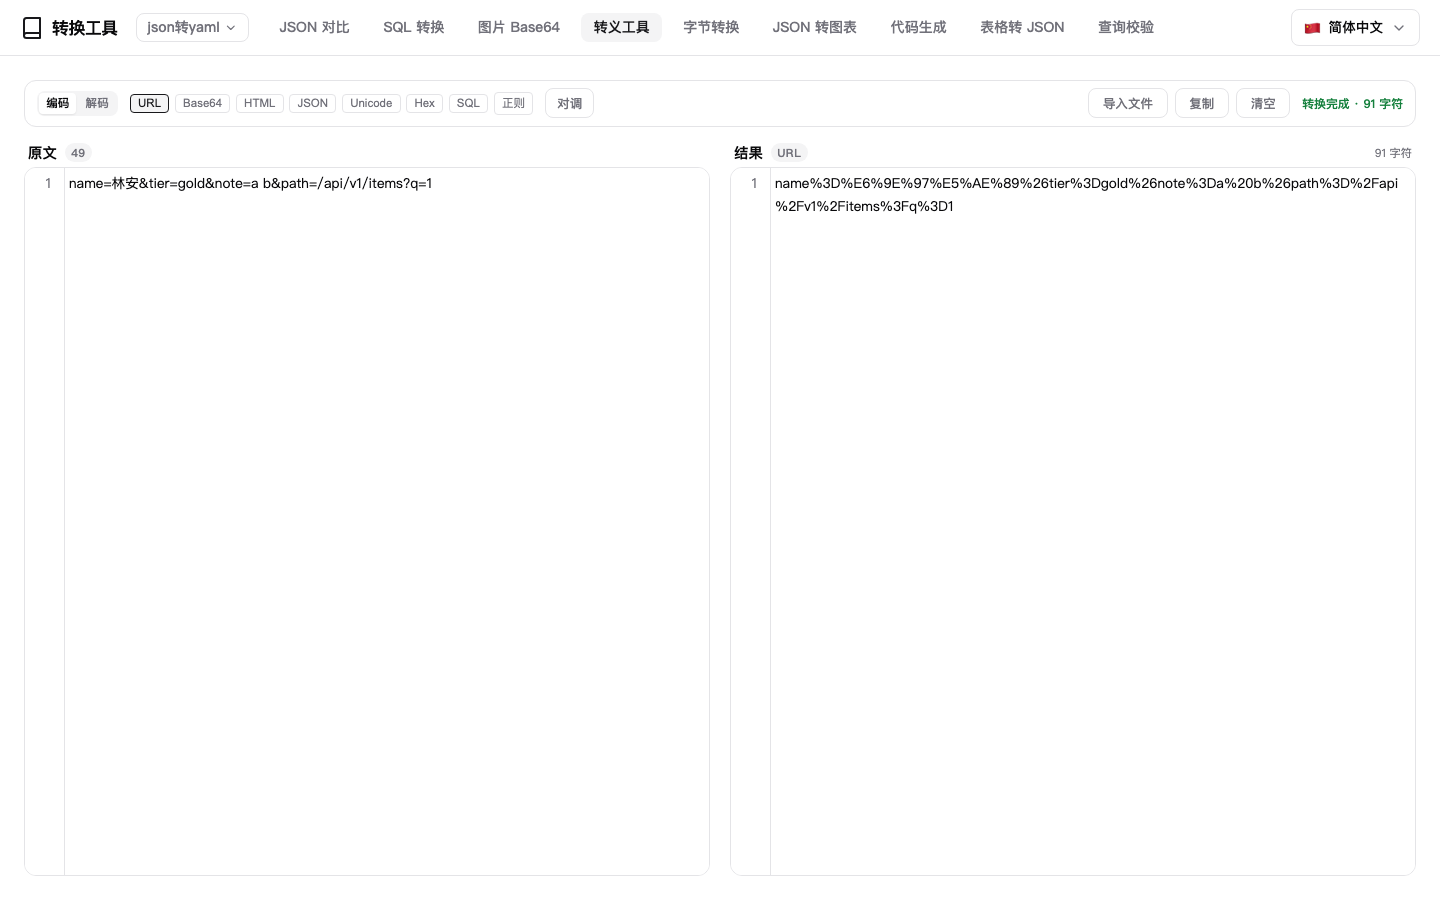
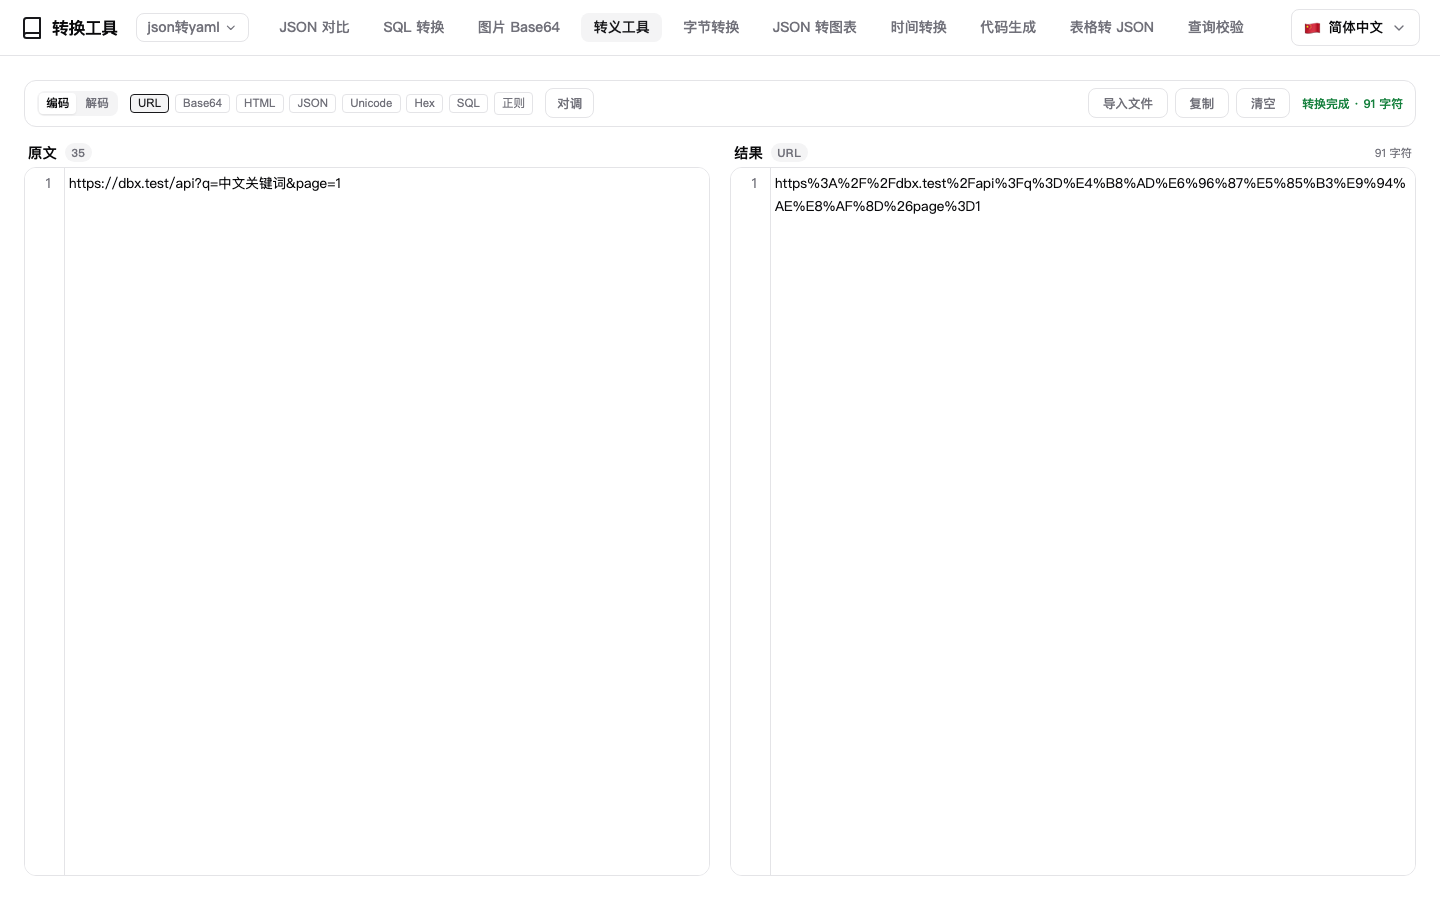
增加截图

diff --git a/.workbuddy/memory/2026-10-25.md b/.workbuddy/memory/2026-10-25.md
@@ -68,5 +68,19 @@
 ### 约定更新
 「版本号以 `manifest.json` 为准」——用户原话「以后以 mainfest 为准」。其余三处跟 manifest 对齐，但不自己决定升版本。
 
+### 23:18 用户指出「截图好像是旧的」→ 整套重拍
+根因：导航新增「时间转换」后，10 张旧图（10-24 拍的）导航里都少这一项，只有新拍的时间页图是新的。用户说「截图好像是旧的」就是指这个。
+
+处理：写 `/tmp/imgh/shoot-readme-all.js`，一次跑完 11 张——首屏拍格式转换，其余点导航 + 点示例按钮（表格页「用户信息」、图片页「示例图片」），全程 1440×900、1x、亮色、清 toast。**筛选示例按钮时必须加 `offsetParent !== null`**，否则「用户信息」这种同名 chip 会点到隐藏页面里的那个。
+
+补拍时踩到的三个坑：
+1. **不是每页都自动装示例**：代码生成 / 查询 / 转义 / 字节 / 图表 / 表格 / 图片点导航或点示例就有；**格式转换、对比、SQL 是空的**——格式转换点 `#genMockBtn` 再 `#convertBtn`，对比点 `#cmpJsonSamples` 的「用户信息」再 `#cmpRun`，SQL 往 `#sqlInputText` 灌 5 个值再 `#sqlGenerate`（值用 `u-10231…u-10235` 这类自造 id）。
+2. **别用 `textarea.value` 判断内容是否进去**：CodeMirror 下它读出来是空（对比页明明 4 处差异，`cmpLeftText.value` 也是 0）。要读 `el.CodeMirror.getValue()`。
+3. 懒创建的 CM 要等 ~500 ms 再取实例，否则 `nextElementSibling.CodeMirror` 是 undefined，写值静默失败。
+
+结果：11 张全部 1440×900、亮色、导航含「时间转换」，逐张看过——主图 JSON→YAML、对比 4 处差异、SQL 的 IN 列表、表格 4×5、图片 Base64、TS 模型、JSONPath 结果、URL 转义、字节批量+三种写法、时间转换、柱状图，都与旧图状态一致（字节页用的是当前默认示例，内容比旧图更全）。
+
+记进 MEMORY.md：**加一个导航项 = 全部核心页截图都过时**，必须整套重拍，不能只补新页那张。
+
 ### 23:12 用户改 CHANGELOG
 用户自己把「图表宽高输入老是变」那条**从 0.1.6 修复段挪到 0.1.7**（那条修复确实发生在 0.1.6 发布之后，归 0.1.7 才对），0.1.7 现在是「新增 4 / 修复 1 / 工程化 5」。我只把该段多余的空行（标题前两行、标题后零行）统一成项目格式，条目一个字没动。

diff --git a/.workbuddy/memory/MEMORY.md b/.workbuddy/memory/MEMORY.md
@@ -13,6 +13,11 @@
 ## 文档与截图
 
 1. **截图与当前版本一致**：改到 UI（导航、布局、文案、主题）就重拍 README 用到的图；导航项 / 页面结构 / 按钮文案要与当次打包的 `ui/index.html` 对得上。
+1.1 **加一个导航项 = 全部核心页截图都过时**（2026-10-25 教训）：导航是每张图都有的公共区域，新增「时间转换」后其余 10 张图里的导航就少了一项，用户一眼看出「截图好像是旧的」。所以加页面 / 改导航后要**整套重拍**，不能只补新页那张；拍完逐张确认导航里含新项。
+1.2 重拍脚本：`/tmp/imgh/shoot-readme-all.js` 一次跑 11 张（1440×900、1x、亮色、清 toast），另有 `shoot-readme-main.js`（格式转换页）、`shoot-readme-fill.js`、`shoot-readme-sql.js` 处理要手工装内容的页。三个坑：
+   - **只有部分页会自动装示例**（代码 / 查询 / 转义 / 字节 / 图表点导航就有；表格要点「用户信息」、图片要点「示例图片」）；**格式转换、对比、SQL、时间转换是空的**，格式转换点 `#genMockBtn` + `#convertBtn`，对比点 `#cmpJsonSamples` 里的「用户信息」+ `#cmpRun`，SQL 要往 `#sqlInputText` 灌值再点 `#sqlGenerate`，时间转换往 CM 里灌 5 行（`2020-01-01` / 空格 / `T` / 两个时间戳）。时间页的空态看着像有字，其实是 `timeInputPlaceholder` 的灰色占位（一行用 `·` 连起来）。
+   - 判断内容有没有进去**别读 `textarea.value`**（CodeMirror 会返回空），读 `el.CodeMirror.getValue()`；懒创建的 CM 要等 ~500 ms 再取。
+   - 按文字找按钮时加 `offsetParent !== null`，否则同名 chip（「用户信息」在对比 / 表格 / 代码生成三处都有）会点到隐藏页面里的那个。
 2. **只留核心页**：每个一级功能页一张（现 11 张：格式转换主图 + 对比 / SQL / 图片 / 转义 / 字节 / 时间 / 代码生成 / 查询校验 / 表格 / 图表，实际以 README 引用为准）。细节图（弹层、暗色、窄屏）不进 README；不再引用的 `docs/*.png` 直接删。
 3. 规格：**1440×900、1x 原生像素、亮色主题**（`--force-device-scale-factor=1`）。截图前清 `.toast`，否则会把上一场景的提示带进来。
 4. 改完用脚本双向校验「README 引用 → 文件存在」「docs 文件 → 是否被引用」。
